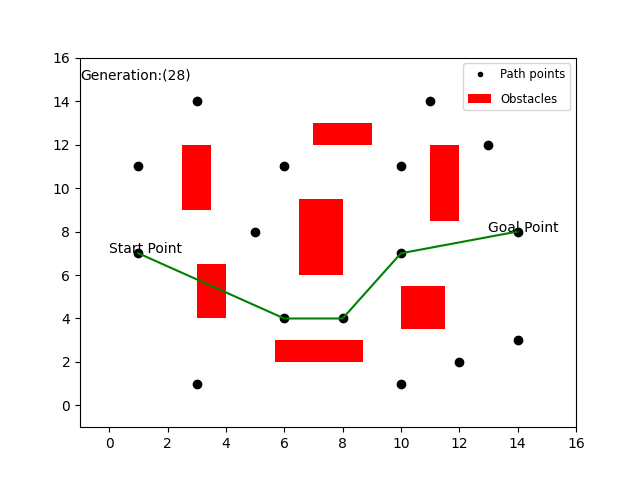
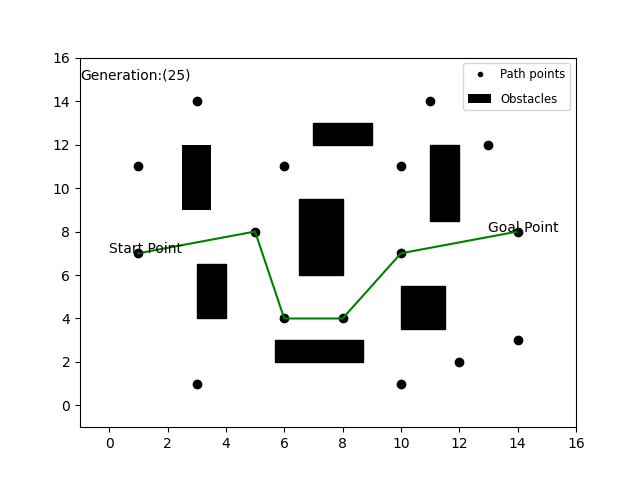
fix: update show correct algo

diff --git a/app.py b/app.py
@@ -211,6 +211,8 @@ def main():
             html = '<html><body><img style="margin-bottom: 10px;" src="https://raw.githubusercontent.com/Apurva-tech/files/master/aircraftTerrain.jpeg" alt="Aircraft" width="300" height="150"></body></html>'
             st.sidebar.metric(label="Best algorithm", value="RTAA* Algorithm", delta="optimal, time efficient")
             st.sidebar.markdown(html, unsafe_allow_html=True)
+            if(st.sidebar.button('Show RTAA*')): 
+                option = 'RTAA* Algorithm'
 
 
         elif environments == 'Agriculture Terrain':
@@ -220,6 +222,8 @@ def main():
             html = '<html><body><img style="margin-bottom: 10px;" src="https://media.istockphoto.com/id/454184549/photo/soybean-field.jpg?s=612x612&w=0&k=20&c=pRJJFvHnsjnEfkQRW5s-hKS-PGtYfdcrh7mWzQWdvM0=" alt="Agriculture" width="300" height="150"></body></html>'
             st.sidebar.metric(label="Best algorithm", value="Bidirectional A* Algorithm", delta="optimality, slowly changing environment")
             st.sidebar.markdown(html, unsafe_allow_html=True)
+            if(st.sidebar.button('Show Bidirectional')): 
+                option = 'Bi-directional Algorithm'
 
         elif environments == 'Extra Terrestrial Terrain':
             s_start = (1, 1)
@@ -228,26 +232,34 @@ def main():
             html = '<html><body><img style="margin-bottom: 10px;" src="https://www.vaisala.com/sites/default/files/styles/16_9_liftup_extra_large/public/images/LIFT-Mars_3D-illustration_1600x900.jpg" alt="Extra Terrestrial Terrain" width="300" height="150"></body></html>'
             st.sidebar.metric(label="Best algorithm", value="D* or RTAA* Algorithm", delta="fuel efficient: optimum time and space complexity")
             st.sidebar.markdown(html, unsafe_allow_html=True)
+            if(st.sidebar.button('Show RTAA*')): 
+                option = 'RTAA* Algorithm'
 
         elif environments == 'Elevated rocky terrain':
             currentEnv = env1
             html = '<html><body><img style="margin-bottom: 10px;" src="https://developers.google.com/static/maps/documentation/gaming/images/elevation2.png" alt="Elevated rocky terrain" width="300" height="150"></body></html>'
             st.sidebar.metric(label="Best algorithm", value="ARA* Algorithm", delta="dynamic env")
             st.sidebar.markdown(html, unsafe_allow_html=True)
+            if(st.sidebar.button('Show ARA*')): 
+                option = 'Anytime D* Algorithm'
 
         elif environments == 'Seafloor Terrain':
             currentEnv = seafloorenv
             html = '<html><body><img style="margin-bottom: 10px;" src="https://cdna.artstation.com/p/assets/images/images/003/214/442/large/anil-isbilir-highresscreenshot00002-copy.jpg" alt="Seafloor Terrain" width="300" height="150"></body></html>'
             st.sidebar.metric(label="Best algorithm", value="D* Algorithm", delta="optimal, complex environments")
             st.sidebar.markdown(html, unsafe_allow_html=True)
+            if(st.sidebar.button('Show D*')): 
+                option = 'D* Algorithm'
 
         elif environments == 'Earthquake Disaster Terrain':
             s_start = (2, 2)
             s_goal = (48, 2)
             currentEnv = disasterenv
             html = '<html><body><img style="margin-bottom: 10px;" src="https://1.bp.blogspot.com/-977hjZn3njU/WRBW1DBF_LI/AAAAAAAAMRM/EYnfV9xuT4knm2REBExZeANvu67cooB6wCLcB/s1600/The%2Bdramatic%2Bterrain%2B-%2Bthe%2Bjoin%2Bbetween%2Btwo%2Btectonic%2Bplates.jpg" alt="Earthquake Disaster Terrain" width="300" height="150"></body></html>'
-            st.sidebar.metric(label="Best algorithm", value="ARA* Algorithm", delta="time, memory efficient")
+            st.sidebar.metric(label="Best algorithm", value="D* Algorithm", delta="time, memory efficient")
             st.sidebar.markdown(html, unsafe_allow_html=True)
+            if(st.sidebar.button('Show D*')): 
+                option = 'D* Algorithm'
 
         elif environments == 'Industry Warehouse Terrain':
             s_start = (5, 5)
@@ -256,6 +268,8 @@ def main():
             html = '<html><body><img style="margin-bottom: 10px;" src="https://www.360connect.com/wp-content/uploads/2020/12/forklift-835340_1920.jpg" alt="Industry Warehouse Terrain" width="300" height="150"></body></html>'
             st.sidebar.metric(label="Best algorithm", value="LPA* Algorithm", delta="slow changing env, optimal")
             st.sidebar.markdown(html, unsafe_allow_html=True)
+            if(st.sidebar.button('Show LPA*')): 
+                option = 'LPA* Algorithm'
 
         elif environments == 'Forest Terrain':
             s_start = (5, 25)
@@ -263,6 +277,8 @@ def main():
             html = '<html><body><img style="margin-bottom: 10px;" src="https://img5.goodfon.com/wallpaper/nbig/0/cb/priroda-leto-vid-sverkhu-les-derevia-doroga.jpg" alt="Forest Terrain" width="300" height="150"></body></html>'
             st.sidebar.metric(label="Best algorithm", value="LPA* Algorithm", delta="optimal, less time complexity")
             st.sidebar.markdown(html, unsafe_allow_html=True)
+            if(st.sidebar.button('Show LPA*')): 
+                option = 'LPA* Algorithm'
 
         elif environments == 'City street Terrain':
             s_start = (2, 2)
@@ -271,6 +287,8 @@ def main():
             html = '<html><body><img style="margin-bottom: 10px;" src="https://community.esri.com/legacyfs/online/121677_3.jpg" alt="City street Terrain" width="300" height="150"></body></html>'
             st.sidebar.metric(label="Best algorithm", value="Bidirectional A* Algorithm", delta="time, accurate")
             st.sidebar.markdown(html, unsafe_allow_html=True)
+            if(st.sidebar.button('Show Bidirectional')): 
+                option = 'Bi-directional Algorithm'
 
     elif( option == 'Genetic Algorithm'):
         geneticAlgorithm()

diff --git a/Meta_Heuristic_Algorithm/tools/draw_plot.py b/Meta_Heuristic_Algorithm/tools/draw_plot.py
@@ -73,31 +73,31 @@ def _draw_obstacles():
 
     obs_1_x = [2.5, 3.5, 3.5, 2.5, 2.5]
     obs_1_y = [9, 9, 12, 12, 9]
-    plt.fill(obs_1_x, obs_1_y, "r")
+    plt.fill(obs_1_x, obs_1_y, "black")
 
     plt.legend(('Path points', 'Obstacles'), loc='upper right', fontsize='small',
                numpoints=1, markerscale=0.5, labelspacing=1)
 
     obs_2_x = [3, 4, 4, 3, 3]
     obs_2_y = [6.5, 6.5, 4, 4, 6.5]
-    plt.fill(obs_2_x, obs_2_y, "r")
+    plt.fill(obs_2_x, obs_2_y, color="black")
 
     obs_3_x = [7, 9, 9, 7, 7]
     obs_3_y = [12, 12, 13, 13, 12]
-    plt.fill(obs_3_x, obs_3_y, "r")
+    plt.fill(obs_3_x, obs_3_y, color="black")
 
     obs_4_x = [6.5, 8, 8, 6.5, 6.5]
     obs_4_y = [6, 6, 9.5, 9.5, 6]
-    plt.fill(obs_4_x, obs_4_y, "r")
+    plt.fill(obs_4_x, obs_4_y, color="black")
 
     obs_5_x = [5.7, 8.7, 8.7, 5.7, 5.7]
     obs_5_y = [2, 2, 3, 3, 2]
-    plt.fill(obs_5_x, obs_5_y, "r")
+    plt.fill(obs_5_x, obs_5_y, color="black")
 
     obs_6_x = [11, 12, 12, 11, 11]
     obs_6_y = [8.5, 8.5, 12, 12, 8.5]
-    plt.fill(obs_6_x, obs_6_y, "r")
+    plt.fill(obs_6_x, obs_6_y, color="black")
 
     obs_7_x = [10, 11.5, 11.5, 10, 10]
     obs_7_y = [3.5, 3.5, 5.5, 5.5, 3.5]
-    plt.fill(obs_7_x, obs_7_y, "r")
+    plt.fill(obs_7_x, obs_7_y, color="black")

diff --git a/Meta_Heuristic_Algorithm/main.py b/Meta_Heuristic_Algorithm/main.py
@@ -55,7 +55,7 @@ def geneticAlgorithm():
 
         show_plot(best_chromosome=chr_crossover_mutated_population[0])
         Config.generations += 1
-        st.write(geneticAlgoLogs)
+        print(geneticAlgoLogs)
 
     show_plot(best_chromosome=chr_crossover_mutated_population[0], inf_time=True)
 
